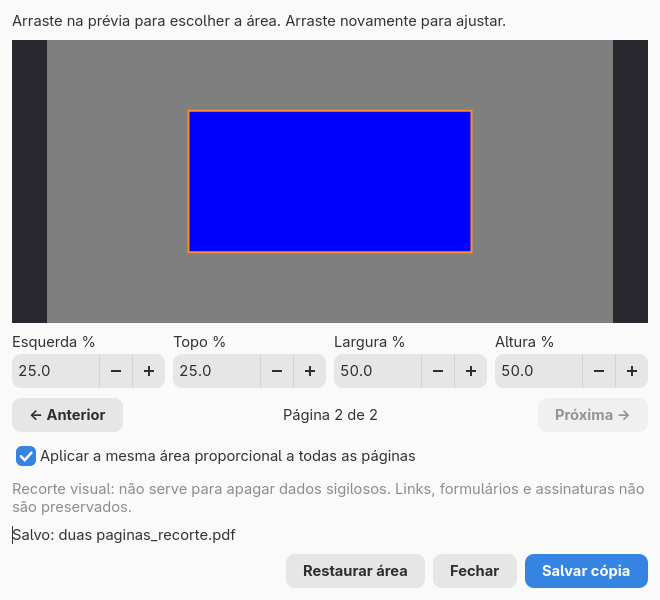
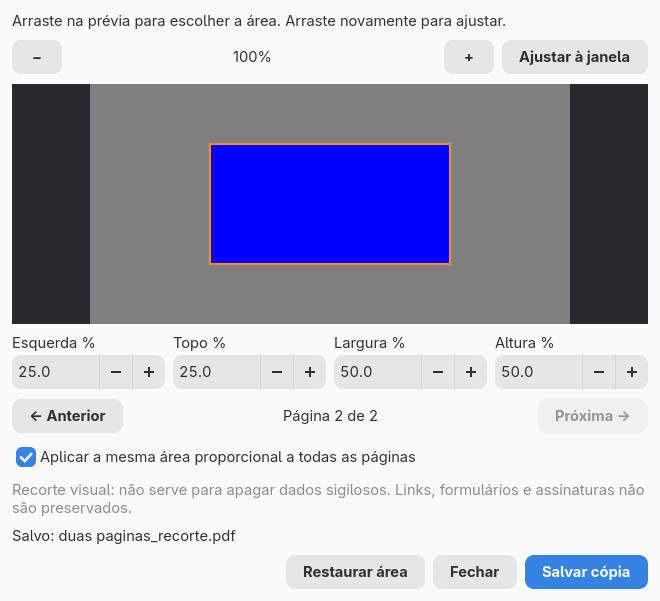
Add zoom and scrolling to PDF crop preview

diff --git a/recortar.py b/recortar.py
@@ -64,11 +64,12 @@ class CropDocument:
             return self.document.get_page(page).get_size()
         return self.image.get_width(), self.image.get_height()
 
-    def preview(self, page):
+    def preview(self, page, zoom=1):
         width, height = self.size(page)
         if not self.pdf:
             return self.image
-        scale = min(1.5, 1400 / width, 1000 / height)
+        scale = min(1.5 * zoom, 1400 * zoom / width, 1000 * zoom / height,
+                    4096 / width, 4096 / height)
         surface = cairo.ImageSurface(cairo.FORMAT_ARGB32,
                                      max(1, math.ceil(width * scale)), max(1, math.ceil(height * scale)))
         ctx = cairo.Context(surface)
@@ -122,6 +123,7 @@ class CropWindow(Gtk.ApplicationWindow):
         self.set_resizable(False)
         self.document, self.preview_image = None, None
         self.page, self.busy, self.closed = 0, False, False
+        self.zoom = 1
         self.start = None
         self.connect('close-request', self.closing)
         box = Gtk.Box(orientation=Gtk.Orientation.VERTICAL, spacing=10,
@@ -129,11 +131,26 @@ class CropWindow(Gtk.ApplicationWindow):
         self.set_child(box)
         box.append(Gtk.Label(label='Arraste na prévia para escolher a área. Arraste novamente para ajustar.',
                              wrap=True, xalign=0))
-        self.canvas = Gtk.DrawingArea(content_width=420, content_height=280, hexpand=True, vexpand=True)
+        zoom_bar = Gtk.Box(spacing=8)
+        self.zoom_out = Gtk.Button(label='−', tooltip_text='Diminuir zoom')
+        self.zoom_in = Gtk.Button(label='+', tooltip_text='Aumentar zoom')
+        self.zoom_fit = Gtk.Button(label='Ajustar à janela')
+        self.zoom_label = Gtk.Label(label='100%', hexpand=True,
+                                   tooltip_text='Escala em relação à página ajustada à janela')
+        self.zoom_out.connect('clicked', lambda button: self.change_zoom(self.zoom / 1.25))
+        self.zoom_in.connect('clicked', lambda button: self.change_zoom(self.zoom * 1.25))
+        self.zoom_fit.connect('clicked', lambda button: self.change_zoom(1))
+        for widget in (self.zoom_out, self.zoom_label, self.zoom_in, self.zoom_fit):
+            zoom_bar.append(widget)
+        box.append(zoom_bar)
+        self.scroller = Gtk.ScrolledWindow(min_content_width=420, min_content_height=240,
+                                           hexpand=True, vexpand=True)
+        self.canvas = Gtk.DrawingArea(hexpand=True, vexpand=True)
         self.canvas.set_draw_func(self.draw)
         self.canvas.set_cursor_from_name('crosshair')
         self.canvas.update_property([Gtk.AccessibleProperty.LABEL], ['Prévia da área de recorte'])
-        box.append(self.canvas)
+        self.scroller.set_child(self.canvas)
+        box.append(self.scroller)
         self.drag = Gtk.GestureDrag()
         self.drag.set_button(1)
         self.drag.connect('drag-begin', self.begin)
@@ -235,6 +252,10 @@ class CropWindow(Gtk.ApplicationWindow):
         self.previous_button.set_sensitive(ready and self.page > 0)
         self.next_button.set_sensitive(ready and self.page + 1 < self.document.count)
         self.all_pages.set_sensitive(ready)
+        self.zoom_out.set_sensitive(ready and self.zoom > .5)
+        self.zoom_in.set_sensitive(ready and self.zoom < 4)
+        self.zoom_fit.set_sensitive(ready)
+        self.zoom_label.set_text(f'{self.zoom:.0%}')
         for field in self.fields:
             field.set_sensitive(ready)
         if self.document:
@@ -262,13 +283,38 @@ class CropWindow(Gtk.ApplicationWindow):
         self.status.set_text('Carregando página…')
         def shown(image):
             self.page, self.preview_image = page, image
+            self.start = None
+            self.resize_canvas()
             self.status.set_text('Escolha a área e clique em Salvar cópia.')
             self.canvas.queue_draw()
-        self.run_job(lambda: self.document.preview(page), shown)
+        self.run_job(lambda: self.document.preview(page, self.zoom), shown)
+
+    def change_zoom(self, zoom):
+        if self.busy or self.document is None:
+            return
+        zoom = min(4, max(.5, zoom))
+        if zoom == self.zoom:
+            return
+        def shown(image):
+            self.zoom, self.preview_image = zoom, image
+            self.start = None
+            self.resize_canvas()
+            self.status.set_text('Escolha a área e clique em Salvar cópia.')
+        self.status.set_text('Atualizando zoom…')
+        self.run_job(lambda: self.document.preview(self.page, zoom), shown)
+
+    def resize_canvas(self):
+        width, height = self.document.size(self.page)
+        _, _, w, h = fit_rect(width, height, self.scroller.get_width(), self.scroller.get_height())
+        self.canvas.set_content_width(math.ceil(w * self.zoom) if self.zoom > 1 else 0)
+        self.canvas.set_content_height(math.ceil(h * self.zoom) if self.zoom > 1 else 0)
+        self.canvas.queue_draw()
 
     def image_bounds(self):
-        return fit_rect(self.preview_image.get_width(), self.preview_image.get_height(),
-                        self.canvas.get_width(), self.canvas.get_height())
+        width, height = self.document.size(self.page)
+        _, _, w, h = fit_rect(width, height, self.scroller.get_width(), self.scroller.get_height())
+        w, h = w * self.zoom, h * self.zoom
+        return (self.canvas.get_width() - w) / 2, (self.canvas.get_height() - h) / 2, w, h
 
     def begin(self, gesture, x, y):
         self.start = None

diff --git a/test_recortar.py b/test_recortar.py
@@ -89,6 +89,16 @@ class CropTests(unittest.TestCase):
         self.assertEqual(self.module.fit_rect(200, 100, 600, 400), (0, 50, 600, 300))
         self.assertEqual(self.module.drag_rect((.8, .9), (-.1, .2)), (0, .2, .8, .7))
 
+    def test_zoom_preview_has_more_detail_without_changing_pdf_crop(self):
+        document = self.module.CropDocument(self.pdf)
+        normal = document.preview(0)
+        enlarged = document.preview(0, 3)
+        self.assertGreater(enlarged.get_width(), normal.get_width())
+        self.assertGreater(enlarged.get_height(), normal.get_height())
+        output = document.save((.25, .25, .5, .5), 0, False)
+        cropped = self.module.CropDocument(output)
+        self.assertEqual(cropped.size(0), (100, 50))
+
     def test_crop_available_only_for_single_image_or_pdf_and_not_as_conversion(self):
         import conversor
         for path in (self.image, self.pdf):
@@ -148,6 +158,25 @@ class CropTests(unittest.TestCase):
             window.drag.emit('drag-end', w / 2, h / 2)
             for actual, expected in zip(window.rectangle(), (.25, .25, .5, .5)):
                 self.assertAlmostEqual(actual, expected, places=2)
+            selected = window.rectangle()
+            for _ in range(4):
+                window.zoom_in.emit('clicked')
+                until(lambda: not window.busy)
+            until(lambda: window.canvas.get_width() > window.scroller.get_width())
+            self.assertGreater(window.zoom, 2)
+            self.assertEqual(window.rectangle(), selected)
+            # Ao rolar, o gesto continua em coordenadas locais do canvas ampliado.
+            hadj = window.scroller.get_hadjustment()
+            hadj.set_value(min(100, hadj.get_upper() - hadj.get_page_size()))
+            x, y, w, h = window.image_bounds()
+            window.drag.emit('drag-begin', x + w * .25, y + h * .25)
+            window.drag.emit('drag-update', w * .5, h * .5)
+            window.drag.emit('drag-end', w * .5, h * .5)
+            for actual, expected in zip(window.rectangle(), selected):
+                self.assertAlmostEqual(actual, expected, places=2)
+            window.zoom_fit.emit('clicked')
+            until(lambda: not window.busy and window.zoom == 1)
+            until(lambda: window.canvas.get_width() <= window.scroller.get_width())
             window.next_button.emit('clicked')
             until(lambda: window.page == 1 and not window.busy)
             window.all_pages.set_active(True)

diff --git a/docs/CONTINUITY.md b/docs/CONTINUITY.md
@@ -1,5 +1,11 @@
 # Continuidade do projeto
 
+## Zoom no recorte — 2026-10-21
+
+O usuário pediu zoom no PDF dentro da janela de recorte. Foram adicionados −, + e Ajustar à janela, entre 50% e 400% do ajuste inicial, com `Gtk.ScrolledWindow` para navegação. A seleção permanece normalizada, independente do zoom/rolagem. PDFs são renderizados novamente em tarefa de fundo para aumentar o detalhe, com limite de 4096 pixels por dimensão. O zoom também funciona para imagens usando os pixels já decodificados. A mesma escala continua ao trocar de página; a área do canvas é recalculada para o tamanho da página exibida. Nenhuma dependência nova.
+
+Verificação: `RUN_WHEEL_UI=1 python3 -m unittest -v` executou 43 testes, 42 passaram e a matriz opcional foi pulada. O teste da janela emite os sinais GTK de arraste e botões para verificar zoom, rolagem, seleção e retorno ao ajuste; não automatiza o ponteiro físico. Compilação, `sh -n` e `git diff --check` passaram. Revisão independente sem defeitos concretos. Captura da janela atualizada. `./install.sh` executado e os três módulos comparados byte a byte; cópias anteriores em `~/.local/share/nautilus-pdf-join/backups/antes-do-zoom-2026-10-21/`. Basta reabrir a janela de recorte: o lançador no Nautilus não mudou.
+
 ## Recorte visual — 2026-10-21
 
 O usuário aprovou adicionar Recortar na roda para uma imagem/PDF, com janela pequena, prévia e seleção arrastável, salvando cópia. O módulo `recortar.py` abre um processo GTK separado, com controles percentuais acessíveis, restaurar área, navegação de páginas e opção de aplicar a todas. Imagens saem em PNG (primeiro quadro, orientação automática). PDFs saem em PDF por Poppler/Cairo, com clipping proporcional por página; preservam a aparência, mas não links, formulários ou assinaturas, e não devem ser usados para apagar dados sigilosos. Os limites aparecem na janela e no README. A opção fica na primeira página para seleção única; seleções múltiplas e Juntar PDFs mantêm o fluxo anterior.

diff --git a/docs/DEVELOPMENT.md b/docs/DEVELOPMENT.md
@@ -66,6 +66,8 @@ Para verificar a interface, crie dois PDFs de demonstração com conteúdo ident
 
 ## Limites técnicos conhecidos
 
+- A janela de recorte coloca o canvas em `Gtk.ScrolledWindow`; o zoom varia de 0,5 a 4 em relação ao ajuste à janela. Retângulos permanecem normalizados, e eventos de arraste usam coordenadas locais do canvas, inclusive com rolagem. `CropDocument.preview(page, zoom)` aumenta a resolução do PDF até 4096 pixels por dimensão; a gravação continua usando o documento original. O teste GTK verifica ampliar, rolar, selecionar e retornar ao ajuste.
+
 - `Recortar` só aparece para um arquivo de imagem/PDF. A roda inicia `/usr/bin/python3 recortar.py CAMINHO`; o módulo não executa a interface ao ser importado pelo carregador de extensões. O instalador e o desinstalador incluem o terceiro módulo.
 - `CropDocument` usa ImageMagick para orientar/decodificar o primeiro quadro, Cairo para recortar PNG e Poppler/Cairo para redesenhar PDF com clipping. Reutiliza `_publish` para publicação exclusiva. Não instala bibliotecas Python adicionais. Poppler GI é opcional e verificado antes de oferecer recorte de PDF.
 - Retângulos são normalizados em `[0,1]` e validados antes de criar saída. A mesma área em todas as páginas é proporcional, inclusive quando tamanhos/rotações diferem. O teste `test_recortar` cobre pixels, dimensões, originais, colisões, páginas inválidas e rotação sintética com qpdf quando disponível. `RUN_WHEEL_UI=1` também testa janela, arraste, navegação e salvamento com GTK real.

diff --git a/README.md b/README.md
@@ -24,6 +24,8 @@ A primeira página prioriza formatos comuns de cada categoria: JPG/PNG/PDF para 
 
 Selecione **um arquivo**, toque e solte Shift e escolha **Recortar**, na primeira página da roda. Uma janela pequena mostra a prévia: arraste para marcar a área que deseja manter. Arrastar novamente refaz a seleção; os campos de posição e tamanho em porcentagem permitem ajustes pelo teclado. **Restaurar área** volta ao arquivo inteiro.
 
+Use **− / +** para diminuir ou ampliar a prévia, de 50% a 400% em relação à página ajustada à janela. Quando ampliada, use a rolagem e as barras horizontal/vertical para navegar. **Ajustar à janela** volta a mostrar a página inteira. O zoom mantém a seleção e não altera o tamanho do recorte salvo; PDFs recebem uma prévia com mais detalhe ao ampliar.
+
 Em PDFs, navegue por **Anterior / Próxima**. Por padrão, só a página exibida recebe o recorte; marque **Aplicar a mesma área proporcional a todas as páginas** para recortar o documento inteiro. Em páginas de tamanhos diferentes, a seleção usa a mesma proporção em cada página.
 
 **Salvar cópia** cria `<nome>_recorte.pdf` ou `<nome>_recorte.png` na pasta do original. Nomes ocupados recebem `_2`, `_3` etc. O original fica intacto. Fechar a janela sem salvar não cria resultado; uma gravação já iniciada termina mesmo se a janela for fechada.

diff --git a/CHANGELOG.md b/CHANGELOG.md
@@ -2,6 +2,8 @@
 
 ## Em desenvolvimento — 2026-10-21
 
+- Zoom de 50% a 400% na janela de recorte, com rolagem, ajuste à janela e nova renderização do PDF para ampliar os detalhes sem alterar a seleção.
+
 - Recortar uma imagem ou PDF pela roda: janela com prévia, seleção arrastável e ajustes em porcentagem; cópia exclusiva PNG/PDF.
 - Recorte da página atual ou de todas as páginas do PDF, proporcional ao tamanho de cada uma, com processamento fora do Nautilus.
 
